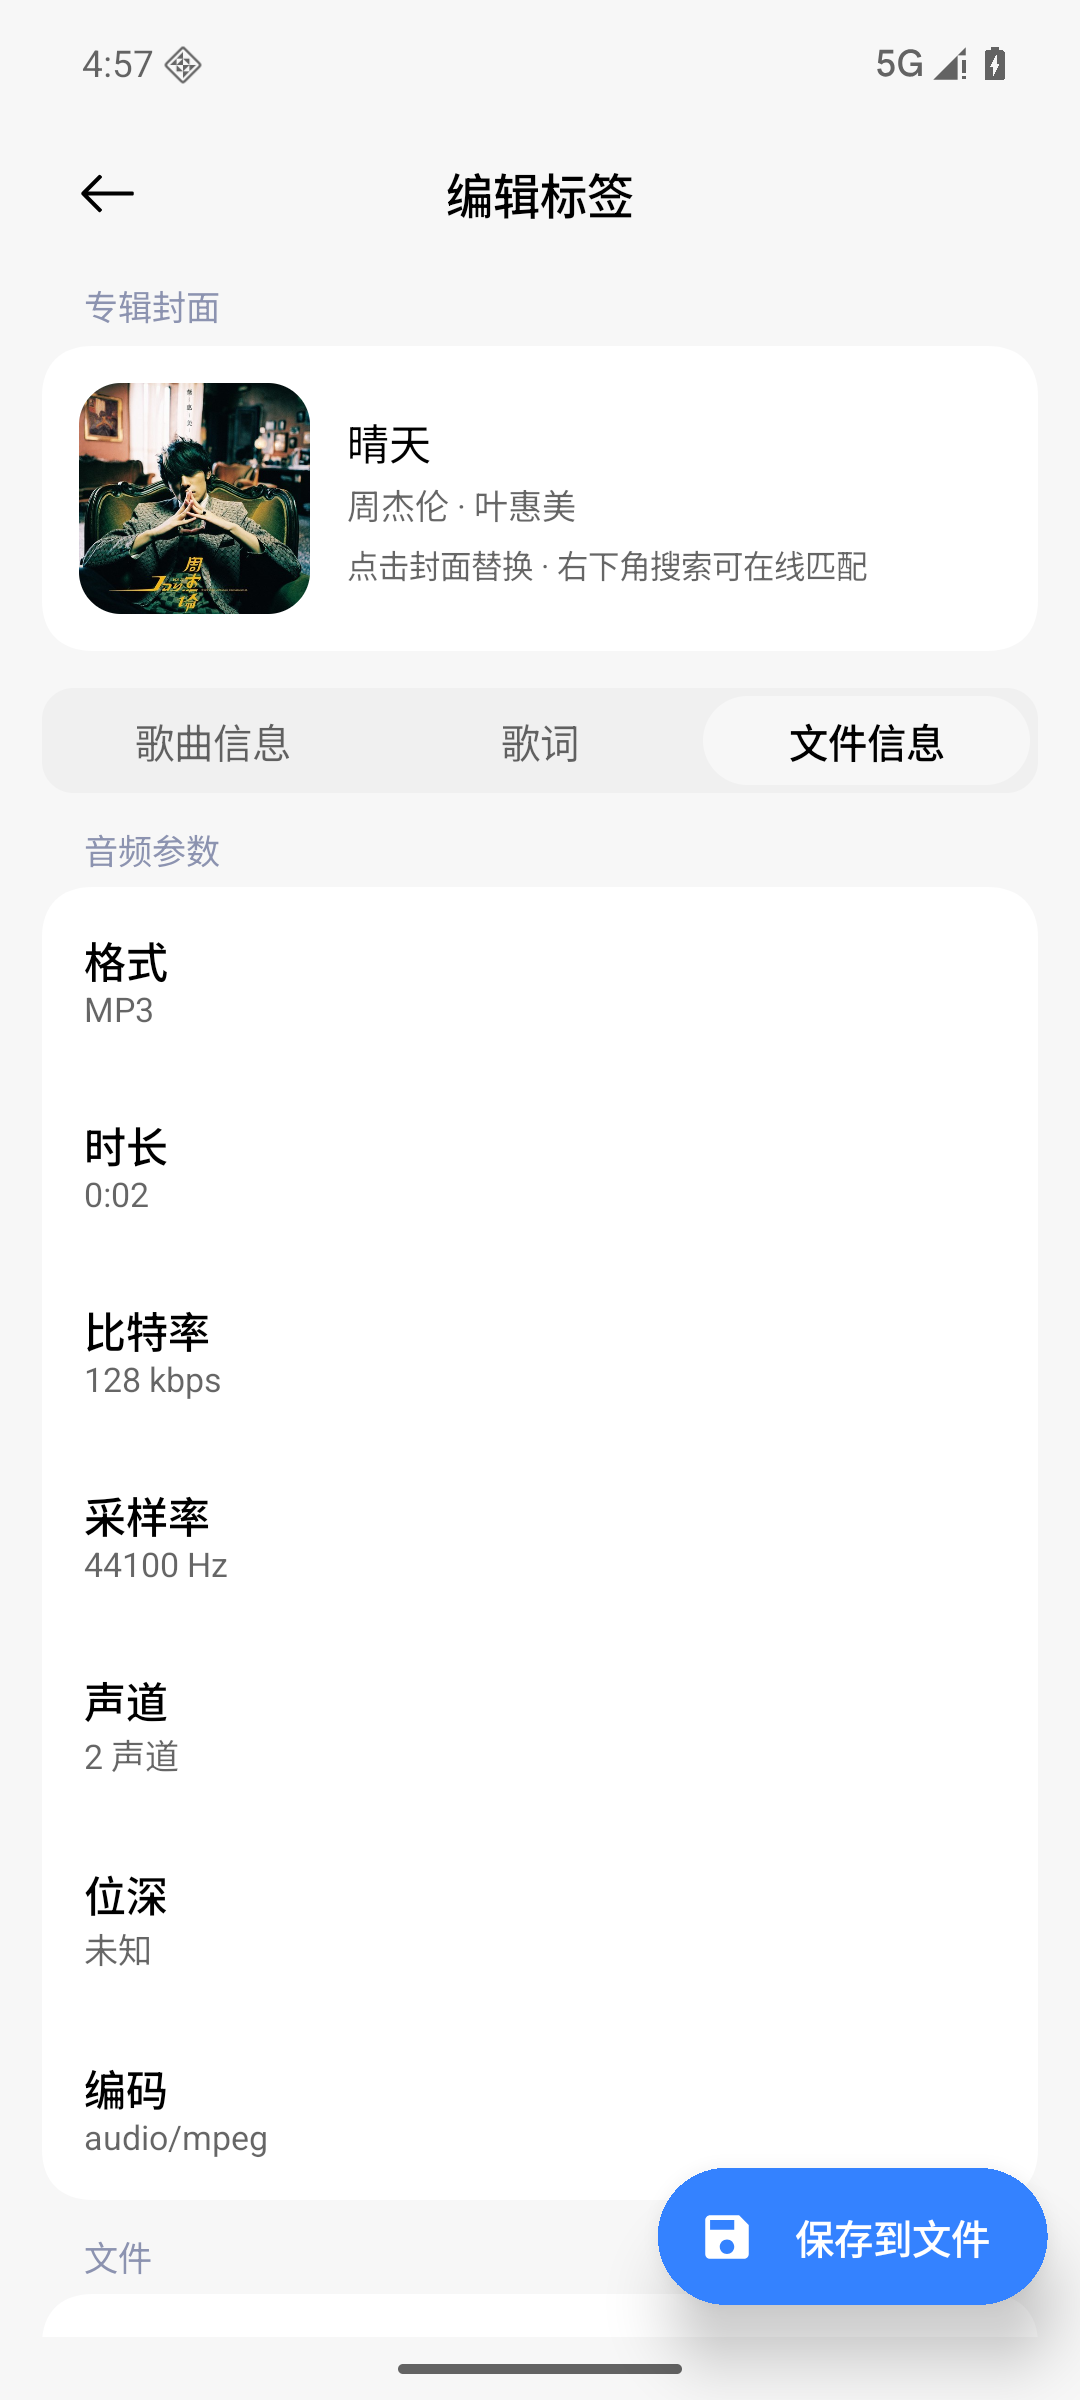
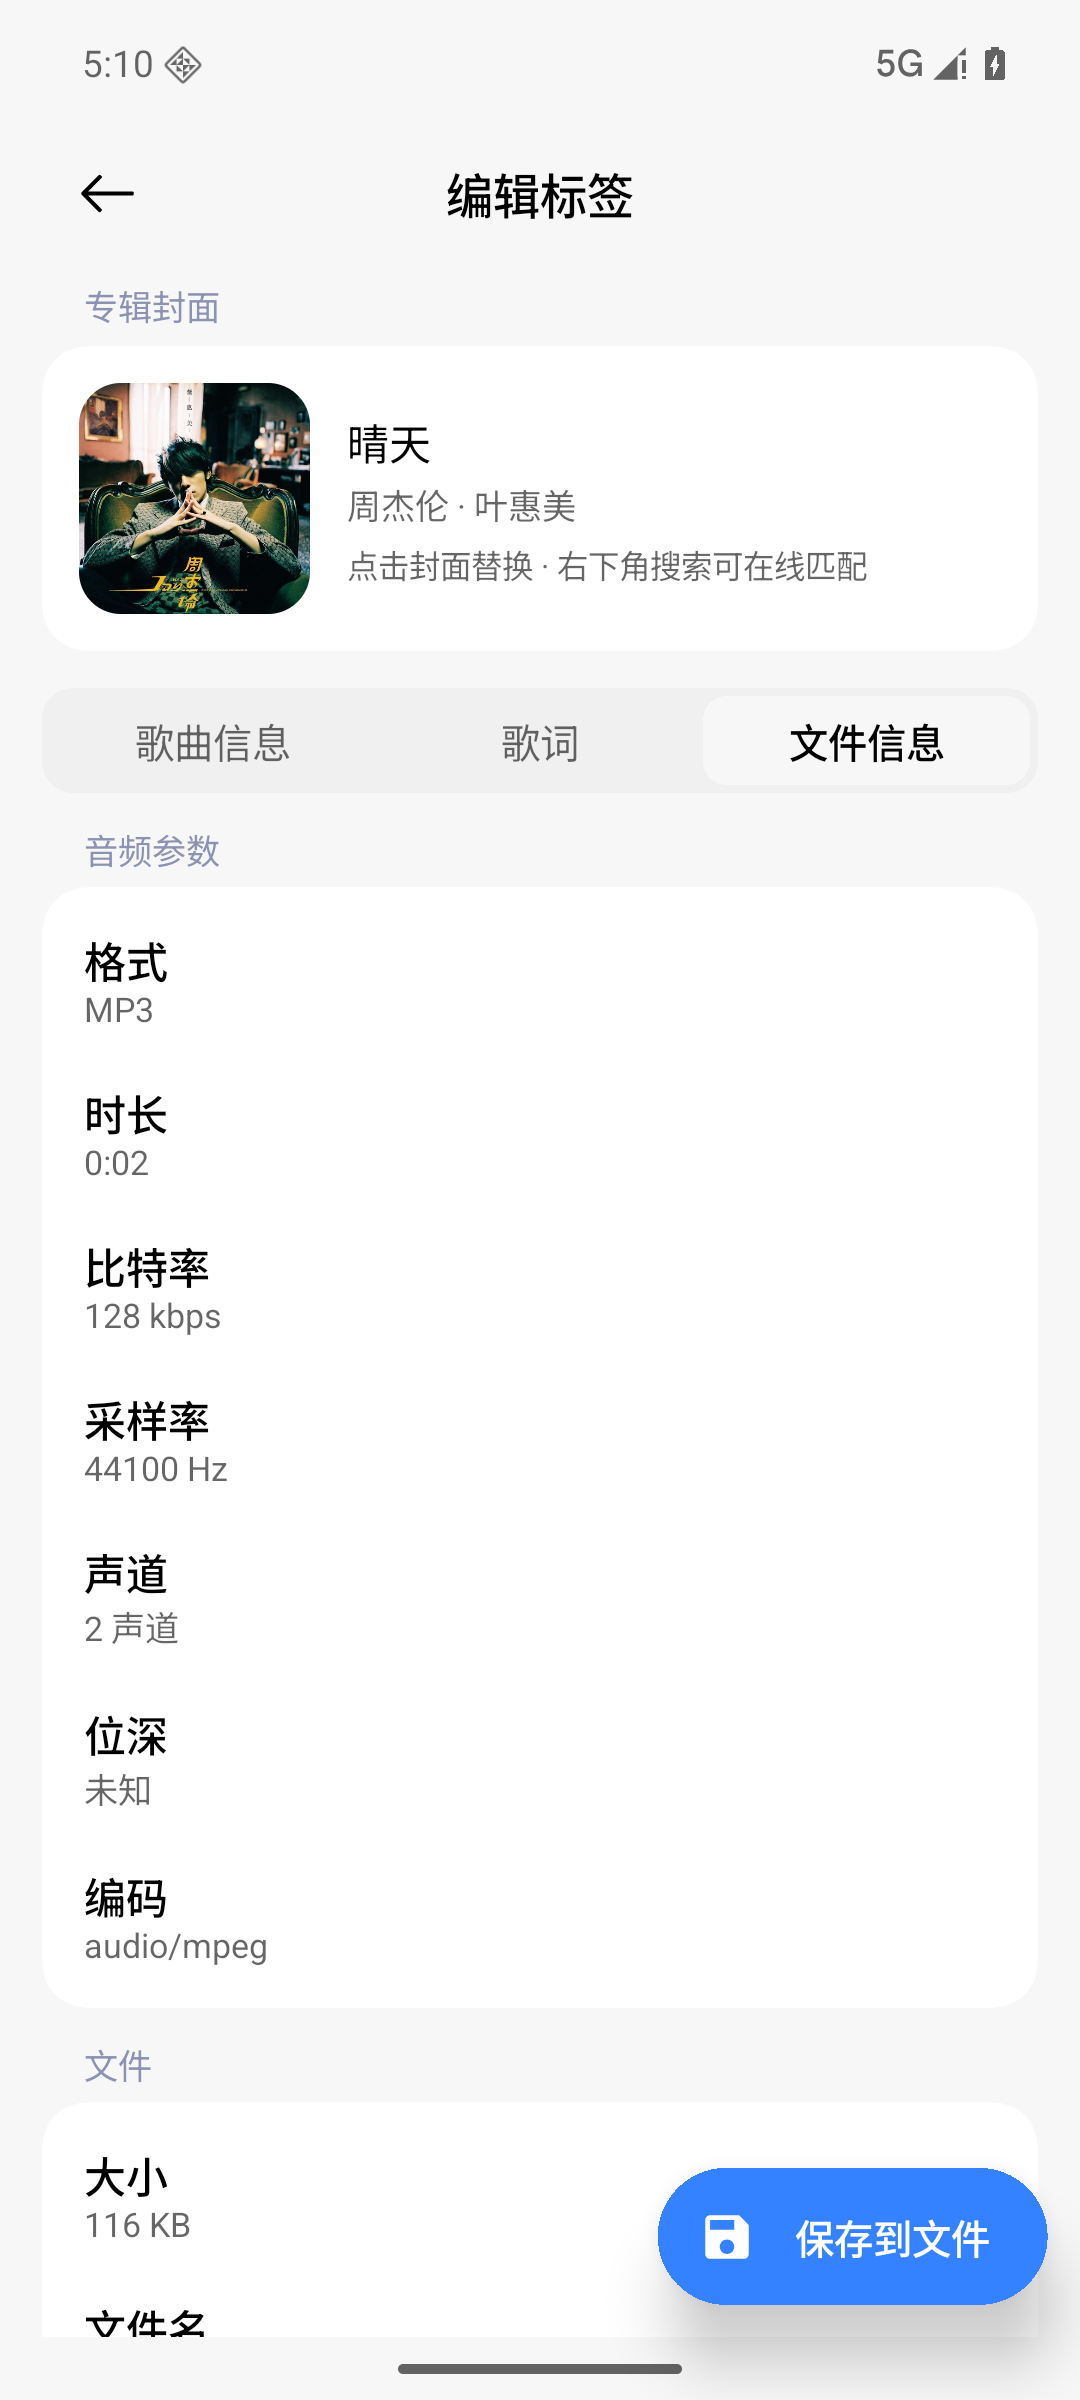
v1.2.7：设置行距平衡与 Tab 白色滑块圆角贴合
- 首末行保留约 16dp 边框留白，行间收窄至约 20dp；下拉菜单选项更紧凑
- 分段 Tab 白块圆角恢复 9dp，贴合轨道内圆角，移除滑动收窄
- 版本 1.2.7 / versionCode 10

Changed region(s): [[0.0611, 0.4375, 0.2139, 0.75], [0.0611, 0.7812, 0.2444, 0.9688], [0.0917, 0.0, 0.1528, 0.0312]]

diff --git a/app/src/main/java/com/musictag/app/ui/settings/SettingsScreen.kt b/app/src/main/java/com/musictag/app/ui/settings/SettingsScreen.kt
@@ -1,4 +1,4 @@
-package com.musictag.app.ui.settings
+package com.musictag.app.ui.settings
 
 import android.os.Build
 import androidx.compose.foundation.background
@@ -79,39 +79,42 @@ fun SettingsScreen(
 
             item {
                 SettingsGroup(title = "在线数据源") {
-                    Box {
-                        BasicComponent(
-                            title = "默认搜索平台",
-                            summary = "用于歌词与封面的在线匹配（非官方接口）",
-                            onClick = { sourceMenuExpanded = true },
-                            endActions = {
-                                Row(verticalAlignment = Alignment.CenterVertically) {
-                                    Text(
-                                        text = settings.preferredSource.displayName,
-                                        style = MiuixTheme.textStyles.body2,
-                                        color = MiuixTheme.colorScheme.onSurfaceVariantSummary,
-                                    )
-                                    Spacer(Modifier.width(4.dp))
-                                    Icon(
-                                        imageVector = MiuixIcons.ChevronForward,
-                                        contentDescription = null,
-                                        tint = MiuixTheme.colorScheme.onSurfaceVariantSummary,
-                                        modifier = Modifier.size(16.dp).rotate(90f),
-                                    )
-                                }
-                            },
-                        )
-                        MiuixOverflowMenu(
-                            expanded = sourceMenuExpanded,
-                            onDismissRequest = { sourceMenuExpanded = false },
-                            selectedLabel = settings.preferredSource.displayName,
-                            items = sources.map { source ->
-                                source.displayName to {
-                                    onSourceChange(source)
-                                    sourceMenuExpanded = false
-                                }
-                            },
-                        )
+                    Column(modifier = Modifier.padding(vertical = 6.dp)) {
+                        Box {
+                            BasicComponent(
+                                title = "默认搜索平台",
+                                summary = "用于歌词与封面的在线匹配（非官方接口）",
+                                onClick = { sourceMenuExpanded = true },
+                                insideMargin = PaddingValues(horizontal = 16.dp, vertical = 10.dp),
+                                endActions = {
+                                    Row(verticalAlignment = Alignment.CenterVertically) {
+                                        Text(
+                                            text = settings.preferredSource.displayName,
+                                            style = MiuixTheme.textStyles.body2,
+                                            color = MiuixTheme.colorScheme.onSurfaceVariantSummary,
+                                        )
+                                        Spacer(Modifier.width(4.dp))
+                                        Icon(
+                                            imageVector = MiuixIcons.ChevronForward,
+                                            contentDescription = null,
+                                            tint = MiuixTheme.colorScheme.onSurfaceVariantSummary,
+                                            modifier = Modifier.size(16.dp).rotate(90f),
+                                        )
+                                    }
+                                },
+                            )
+                            MiuixOverflowMenu(
+                                expanded = sourceMenuExpanded,
+                                onDismissRequest = { sourceMenuExpanded = false },
+                                selectedLabel = settings.preferredSource.displayName,
+                                items = sources.map { source ->
+                                    source.displayName to {
+                                        onSourceChange(source)
+                                        sourceMenuExpanded = false
+                                    }
+                                },
+                            )
+                        }
                     }
                 }
             }
@@ -142,30 +145,32 @@ fun SettingsScreen(
 
             item {
                 SettingsGroup(title = "关于音签") {
-                    BasicComponent(
-                        title = "版本",
-                        summary = BuildConfig.VERSION_NAME,
-                        
-                    )
-                    BasicComponent(
-                        title = "作者",
-                        summary = "松川 & DeepSeek",
-                        
-                    )
-                    BasicComponent(
-                        title = "GitHub",
-                        summary = "Kastorice/MusicTagger",
-                        onClick = onOpenGithub,
-                        
-                        endActions = {
-                            Icon(
-                                imageVector = MiuixIcons.ChevronForward,
-                                contentDescription = null,
-                                tint = MiuixTheme.colorScheme.onSurfaceVariantSummary,
-                                modifier = Modifier.size(18.dp),
-                            )
-                        },
-                    )
+                    Column(modifier = Modifier.padding(vertical = 6.dp)) {
+                        BasicComponent(
+                            title = "版本",
+                            summary = BuildConfig.VERSION_NAME,
+                            insideMargin = PaddingValues(horizontal = 16.dp, vertical = 10.dp),
+                        )
+                        BasicComponent(
+                            title = "作者",
+                            summary = "松川 & DeepSeek",
+                            insideMargin = PaddingValues(horizontal = 16.dp, vertical = 10.dp),
+                        )
+                        BasicComponent(
+                            title = "GitHub",
+                            summary = "Kastorice/MusicTagger",
+                            onClick = onOpenGithub,
+                            insideMargin = PaddingValues(horizontal = 16.dp, vertical = 10.dp),
+                            endActions = {
+                                Icon(
+                                    imageVector = MiuixIcons.ChevronForward,
+                                    contentDescription = null,
+                                    tint = MiuixTheme.colorScheme.onSurfaceVariantSummary,
+                                    modifier = Modifier.size(18.dp),
+                                )
+                            },
+                        )
+                    }
                 }
             }
         }

diff --git a/app/src/main/java/com/musictag/app/ui/components/Components.kt b/app/src/main/java/com/musictag/app/ui/components/Components.kt
@@ -154,7 +154,7 @@ fun InfoRow(label: String, value: String, modifier: Modifier = Modifier) {
         modifier = modifier.fillMaxWidth(),
         title = label,
         summary = value,
-        insideMargin = PaddingValues(horizontal = 16.dp, vertical = 16.dp),
+        insideMargin = PaddingValues(horizontal = 16.dp, vertical = 10.dp),
     )
 }
 
@@ -252,7 +252,7 @@ fun MiuixSegmentedControl(
     onSelected: (Int) -> Unit,
     modifier: Modifier = Modifier,
 ) {
-    val pillShape = RoundedCornerShape(percent = 50)
+    val pillShape = RoundedCornerShape(9.dp)
     Surface(
         modifier = modifier,
         shape = RoundedCornerShape(12.dp),
@@ -652,7 +652,7 @@ fun MiuixOverflowMenu(
                             onDismissRequest()
                             action()
                         },
-                        insideMargin = PaddingValues(horizontal = 20.dp, vertical = 14.dp),
+                        insideMargin = PaddingValues(horizontal = 20.dp, vertical = 10.dp),
                         endActions = if (label == selectedLabel) {
                             {
                                 Icon(

diff --git a/app/src/main/java/com/musictag/app/ui/editor/EditorScreen.kt b/app/src/main/java/com/musictag/app/ui/editor/EditorScreen.kt
@@ -496,7 +496,7 @@ private fun DetailSection(
             insideMargin = PaddingValues(start = 16.dp, end = 16.dp, bottom = 5.dp),
         )
         Card(modifier = Modifier.fillMaxWidth(), cornerRadius = 16.dp) {
-            Column { content() }
+            Column(modifier = Modifier.padding(vertical = 6.dp)) { content() }
         }
     }
 }

diff --git a/docs/RELEASE_NOTES-v1.2.7.md b/docs/RELEASE_NOTES-v1.2.7.md
@@ -1,0 +1,32 @@
+# 音签 MusicTagger v1.2.7
+
+间距与 Tab 细节修正：**卡片留白与行距平衡、白色滑块圆角贴合边框**。
+
+## 下载
+
+- `MusicTagger-v1.2.7.apk`（R8 压缩 + 资源裁剪，约 **1.5 MB**）
[1 lines of base64/hex data omitted]
+- 系统要求：Android 8.0（API 26）及以上；动态取色需 Android 12+
+
+## 更新内容
+
+- **设置项间距重新平衡**：卡片内的第一/最后一行仍保持接近「默认搜索平台」的上下留白（约 16dp），
+  但行与行之间的间距收窄到约 20dp，不再出现过大的空隙。
+- **下拉选择器**：在线数据源行与菜单选项同步收窄上下内边距，选项之间更紧凑。
+- **分段 Tab 选中态**：白色滑块恢复为 9dp 圆角矩形（与灰色轨道 12dp 外圆角、3dp 内缩后的
+  内圆角完全一致），不再使用二分之一圆，达到贴合效果。
+- 滑块滑动仍使用弹性动画；点击区不显示矩形按压高亮，避免分割线残影。
+
+## 验证
+
+- release APK 在 API 36 模拟器安装：设置/关于/文件信息行距正常，白块圆角与轨道边框贴合；
+  Tab 切换动画无高亮残影；154 个 `:core` 单测通过。
+
+## 已知限制
+
+- Spotify 源未接入（OAuth + 无歌词接口）。
+- release 目前使用 debug 签名，便于直接安装。
+
+## 开源
+
+Apache License 2.0。项目地址：<https://github.com/Kastorice/MusicTagger>

diff --git a/docs/TEST-REPORT.md b/docs/TEST-REPORT.md
@@ -275,11 +275,21 @@ MIUI UI 专项验证（均为真机/模拟器截图确认）：
 - release APK 1,588,989 字节（约 1.5 MB）；API 36 模拟器验证间距与 Tab 动画，154 个单测通过。
 - 版本 `versionCode 9` / `versionName 1.2.6`。
 
+### 第十五轮 v1.2.7（2026-11-15）
+
+- 间距：`InfoRow` 垂直内边距改为 10dp，`DetailSection`/关于/在线数据源卡片内容统一
+  增加 6dp 上下内边距，使首末行距边框约 16dp、行间约 20dp；下拉菜单选项垂直内边距 14→10dp。
+- Tab 选中态：白色滑块圆角恢复 9dp（与 12dp 轨道内缩 3dp 后的内圆角一致），移除滑动收窄，
+  保留点击区 indication = null 以消除矩形按压高亮。
+- release APK 1,588,989 字节；API 36 模拟器验证设置/文件信息行距、下拉菜单与白块贴合效果，
+  154 个单测通过。
+- 版本 `versionCode 10` / `versionName 1.2.7`。
+
 ## 3. 构建产物
 
 - `app/build/outputs/apk/release/app-release.apk`（约 **1.5 MB**，R8 压缩、资源裁剪，debug 签名）
 - `app/build/outputs/apk/debug/app-debug.apk`（约 11 MB，供开发调试）
-- `dist/MusicTagger-v1.2.6.apk`（交付副本，SHA-256 见 `dist/SHA256.txt`）
+- `dist/MusicTagger-v1.2.7.apk`（交付副本，SHA-256 见 `dist/SHA256.txt`）
 
 ## 4. 复现步骤
 

diff --git a/README.md b/README.md
@@ -124,7 +124,7 @@ powershell -NoProfile -ExecutionPolicy Bypass -File tools\build.ps1 -Tasks ":cor
 APK 输出：调试版 `app/build/outputs/apk/debug/app-debug.apk`，发布版
 `app/build/outputs/apk/release/app-release.apk`（约 1.5 MB，R8 压缩、资源裁剪、仅保留
 中英资源；当前 release 使用 debug 签名以便直接安装，正式上架前应替换为发布签名）。
-交付副本：`dist/MusicTagger-v1.2.6.apk`，SHA-256 见 `dist/SHA256.txt`。
+交付副本：`dist/MusicTagger-v1.2.7.apk`，SHA-256 见 `dist/SHA256.txt`。
 
 ## 测试
 
